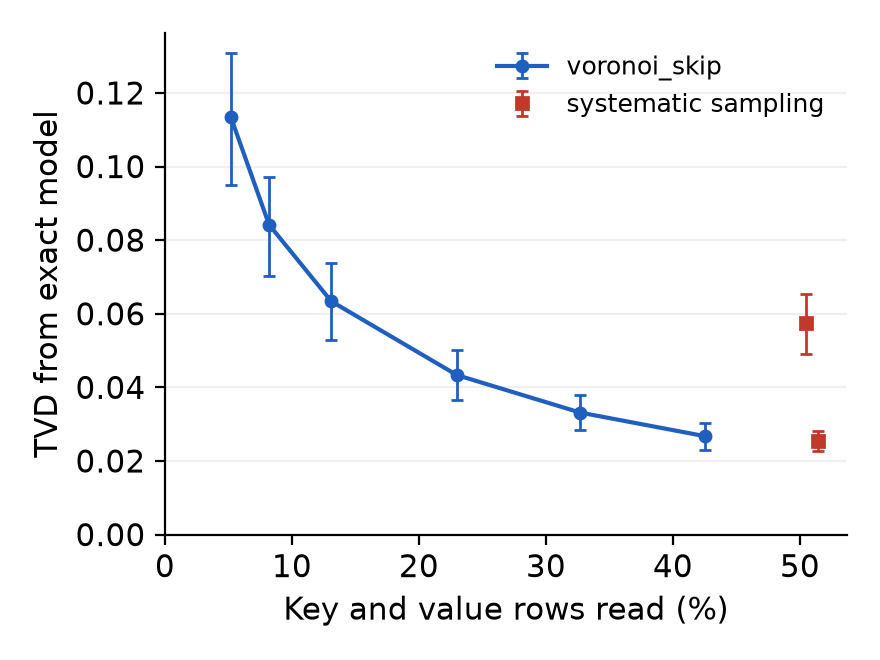
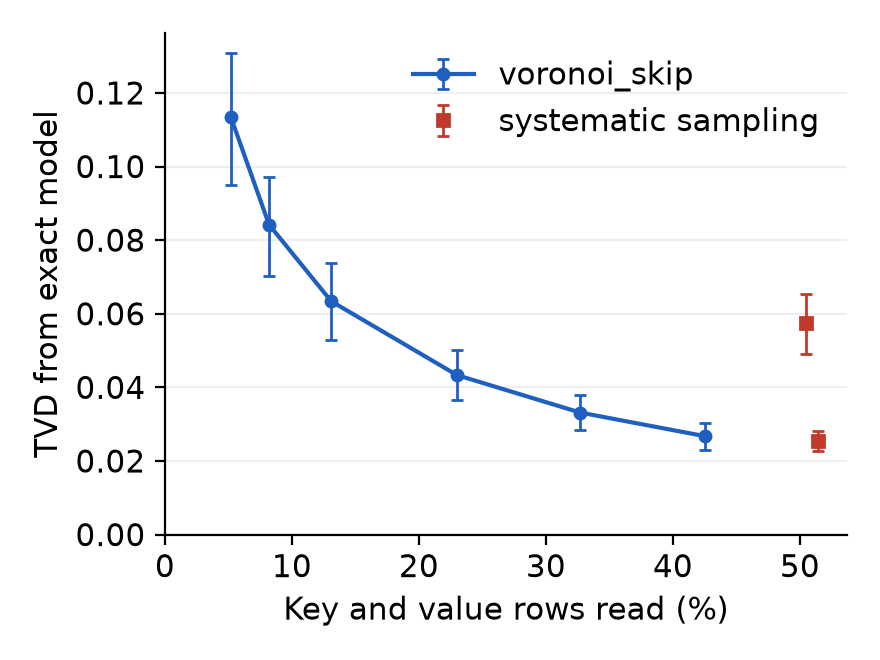
Time the decode step against FlashInfer's exact decode: 1.7-3.6x faster at a 20% budget and up to 8.3x at 5%, at batch 1
Exact decode runs near the card's memory bandwidth in both FlashInfer and PyTorch, so the gain comes from reading less

Changed region(s): [[0.4602, 0.0606, 0.9511, 0.2121]]

diff --git a/src/ssa/harness/kernel_bench.py b/src/ssa/harness/kernel_bench.py
@@ -152,7 +152,17 @@ def bench_n(n: int, *, fracs, layouts, reps: int, tiles, real=None,
     return rows
 
 
-def bench_step(n: int, *, budget: float, reps: int, fused: bool = False) -> dict:
+def flashinfer_decode(q, K, V, *, tensor_cores: bool = False):
+    """FlashInfer's single-request decode attention on the engine layout ``K, V [H_kv, n, d]``.
+
+    Needs ``flashinfer-python`` and, on this sm_120 card, a CUDA >= 12.9 compiler for its JIT; e.g.
+    ``CUDA_HOME=<site-packages>/nvidia/cu13 uv run --with flashinfer-python==0.7.0.post1
+    --with nvidia-cuda-nvcc==13.0.88 --with nvidia-nvvm==13.0.88 --with nvidia-cuda-crt==13.0.88 ...``."""
+    import flashinfer
+    return flashinfer.single_decode_with_kv_cache(q, K, V, kv_layout="HND", use_tensor_cores=tensor_cores)
+
+
+def bench_step(n: int, *, budget: float, reps: int, fused: bool = False, flashinfer: bool = False) -> dict:
     """Per-layer decode step: bin maintenance + selection, attention, and both,
     eager and captured in a CUDA graph, compared with SDPA. Real Qwen3-4B keys are not
     needed for timing; random keys with a shared offset are used."""
@@ -185,8 +195,13 @@ def bench_step(n: int, *, budget: float, reps: int, fused: bool = False) -> dict
     def sdpa():
         return F.scaled_dot_product_attention(q.view(1, H, 1, D), K[:, :, :n + 1], V[:, :, :n + 1], enable_gqa=True)
 
+    fns = [("maint_select", maint_select), ("attention", attend), ("step", full), ("sdpa", sdpa)]
+    if flashinfer:
+        Kf, Vf = Kc[:, :n + 1].contiguous(), Vc[:, :n + 1].contiguous()
+        fns += [("flashinfer", lambda: flashinfer_decode(q, Kf, Vf)),
+                ("flashinfer_tc", lambda: flashinfer_decode(q, Kf, Vf, tensor_cores=True))]
     out = {"n": n, "budget": budget, "fused": fused}
-    for name, fn in (("maint_select", maint_select), ("attention", attend), ("step", full), ("sdpa", sdpa)):
+    for name, fn in fns:
         out[f"{name}_eager_us"] = time_call(fn, reps=reps) * 1e6
         for _ in range(3):
             fn()
@@ -229,11 +244,12 @@ def main() -> None:
     p.add_argument("--reps", type=int, default=100)
     p.add_argument("--real", default="src/ssa/results/multictx/wikitext03.pt")
     p.add_argument("--step", action="store_true", help="time maintenance + selection + attention per step")
+    p.add_argument("--flashinfer", action="store_true", help="with --step: also time FlashInfer's exact decode")
     args = p.parse_args()
 
     if args.step:
-        rows = [bench_step(n, budget=b, reps=args.reps, fused=fz) for n in args.ns for b in (0.2, 0.05)
-                for fz in (False, True)]
+        rows = [bench_step(n, budget=b, reps=args.reps, fused=fz, flashinfer=args.flashinfer)
+                for n in args.ns for b in (0.2, 0.05) for fz in (False, True)]
         payload = stamp({"kind": "kernel_bench_step", "geometry": {"H": H, "H_kv": H_KV, "d": D, "dtype": "bf16"},
                          "reps": args.reps, "rows": rows})
         out = Path("src/ssa/results") / f"kernel_bench_step_{payload['git_sha'][:8]}.json"

diff --git a/tests/test_flashinfer_baseline.py b/tests/test_flashinfer_baseline.py
@@ -1,0 +1,21 @@
+"""FlashInfer's exact decode, used as a timing baseline, must match exact attention (GPU, optional)."""
+
+from __future__ import annotations
+
+import pytest
+import torch
+
+pytest.importorskip("flashinfer")
+pytestmark = pytest.mark.requires_cuda
+
+
+def test_flashinfer_decode_matches_sdpa_on_the_engine_layout():
+    from ssa.harness.kernel_bench import flashinfer_decode
+    g = torch.Generator(device="cuda").manual_seed(0)
+    q = torch.randn(32, 128, device="cuda", dtype=torch.bfloat16, generator=g)
+    K = torch.randn(8, 3000, 128, device="cuda", dtype=torch.bfloat16, generator=g)
+    V = torch.randn_like(K)
+    ref = torch.nn.functional.scaled_dot_product_attention(
+        q.view(1, 32, 1, 128).float(), K.unsqueeze(0).float(), V.unsqueeze(0).float(), enable_gqa=True).view(32, 128)
+    for tc in (False, True):
+        torch.testing.assert_close(flashinfer_decode(q, K, V, tensor_cores=tc).float(), ref, rtol=2e-2, atol=2e-2)

diff --git a/src/ssa/harness/plot_tvd.py b/src/ssa/harness/plot_tvd.py
@@ -69,7 +69,7 @@ def plot_series(series, out) -> None:
     ax.set_xlim(0, None)
     ax.set_ylim(0, None)
     ax.grid(axis="y", alpha=0.2)
-    ax.legend(frameon=False, loc="upper right", fontsize=9)
+    ax.legend(frameon=False, loc="upper right", fontsize=9 if series.get("voronoi_tail", {}).get("x") else None)
     fig.tight_layout()
     fig.savefig(out)
     plt.close(fig)
